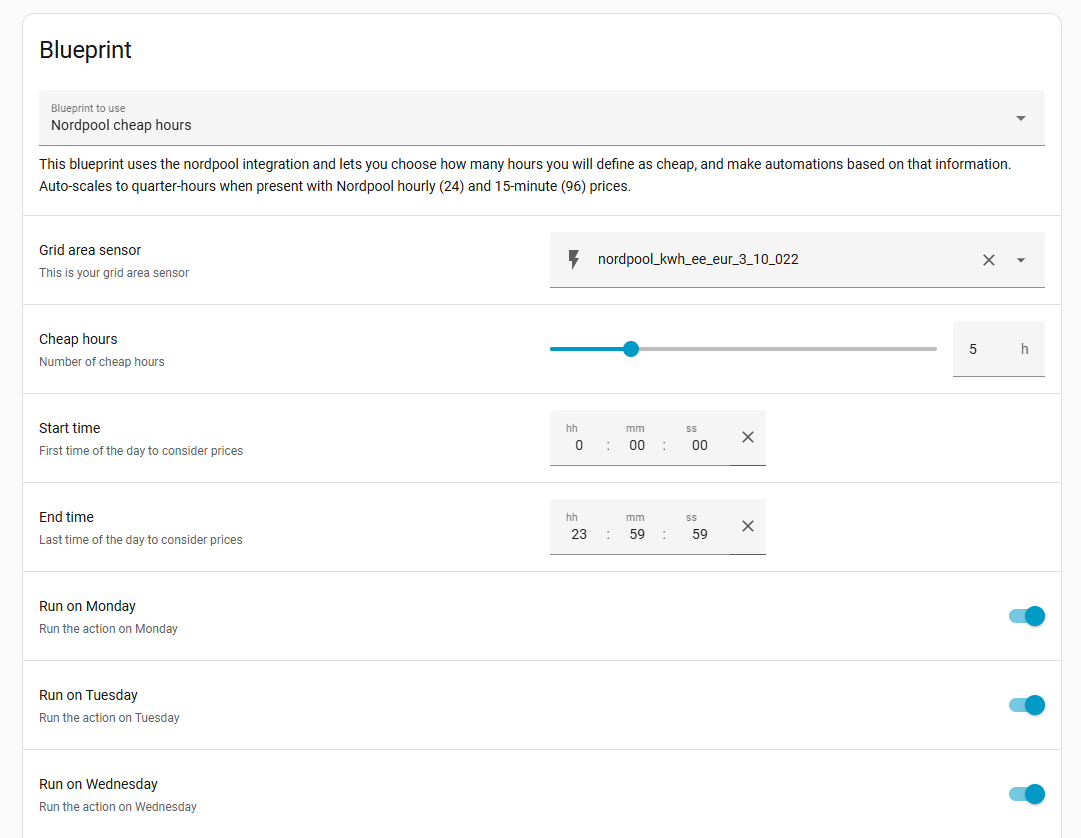
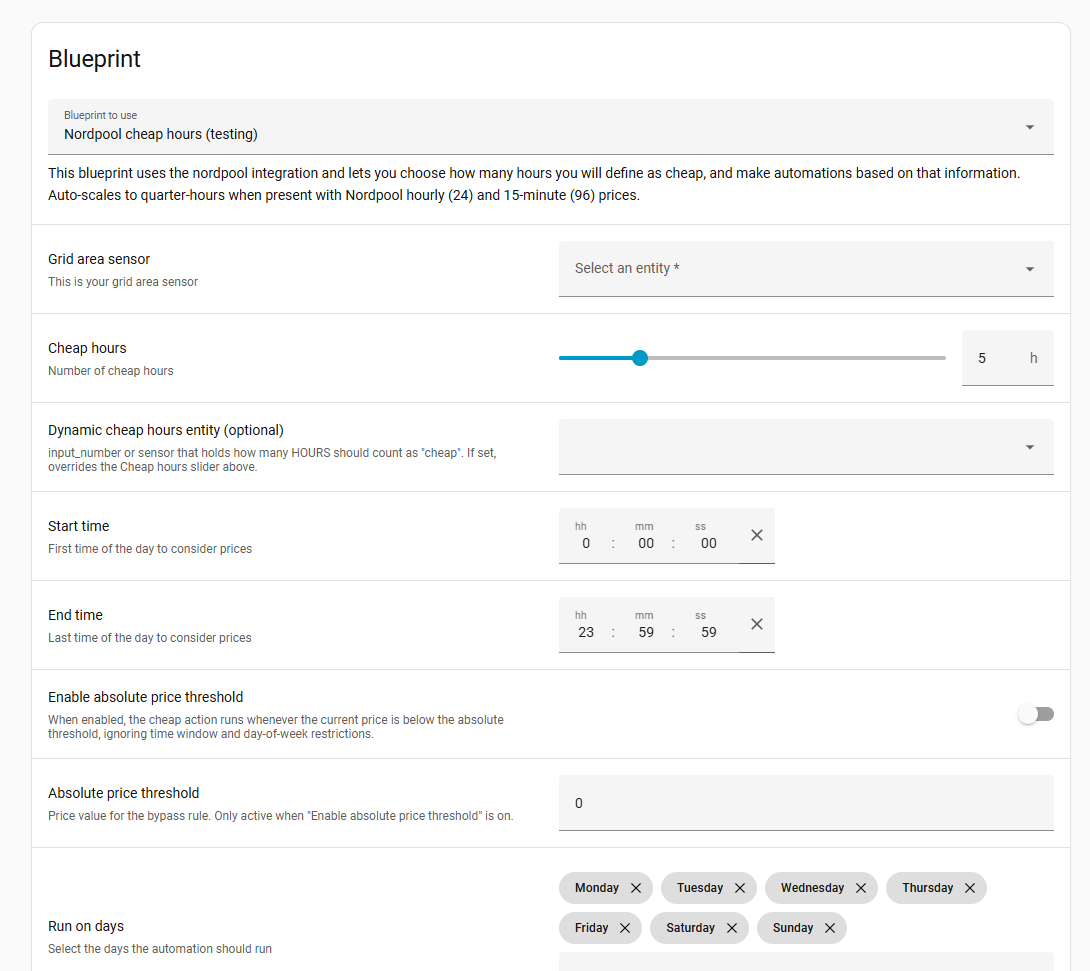
README and images Add dynamic cheap hours entity and absolute price threshold to README and updated images.

diff --git a/README.md b/README.md
@@ -17,11 +17,18 @@ Let's you choose sensor and enities.
 - **Weekday selection**: Choose which days of the week to run automations.
 - **Flexible thresholds**: Define how many hours should be considered "cheap".
 - **Auto-scaling**: Automatically handles both hourly (24 prices) and 15-minute (96 prices) Nordpool data.
+- **Testing blueprint extras**: Optional dynamic cheap-hours entity and optional absolute price threshold bypass.
 
 ## How to install
 * Open yaml file from this repo and copy address
 * Open HA Settings > Automation and Scenes > Blueprints > Import blueprint
 * Paste previously copied address and import
+
+### Which blueprint to import
+- Use `nordpool_cheap_prices.yaml` if you want the stable version.
+- Use `nordpool_cheap_prices_testing.yaml` if you want the newer testing features described below:
+  - Dynamic cheap hours entity
+  - Absolute price threshold
 
 
 ## Prerequisites
@@ -105,6 +112,43 @@ attributes:
 - Each `raw_today` entry uses `value` field (not `price`) for the price amount
 
 ## Configuration
+
+#### Dynamic cheap hours entity
+
+`Dynamic cheap hours entity (optional)` accepts an `input_number` or a numeric `sensor`.
+
+- If the entity is set and has a valid numeric value, it overrides the `Cheap hours` slider.
+- If the entity is empty, `unknown`, or `unavailable`, the blueprint falls back to the normal `Cheap hours` slider.
+- The value is interpreted as hours. On 15-minute Nordpool data the blueprint automatically scales that to quarter-hour slots.
+
+Use this when:
+- You want to change the number of cheap hours from a Home Assistant dashboard without reopening the automation.
+- You want another automation, helper, or template sensor to decide how many cheap hours should be used.
+- You want seasonal or weather-based tuning, for example more heating hours on colder days and fewer hours on milder days.
+
+Example UI for dynamic variable control:
+
+![Dynamic cheap hours example](screenshots/dynamic_hours_control.png)
+
+In the example above, an `input_number` helper is used to control the runtime target from the UI. That helper can be selected as the `Dynamic cheap hours entity`, letting the blueprint react immediately to the updated value.
+
+#### Absolute price threshold
+
+The testing blueprint also adds:
+- `Enable absolute price threshold`
+- `Absolute price threshold`
+
+When enabled, the cheap action runs whenever the current Nordpool price is less than or equal to the configured absolute price threshold.
+
+Use this when:
+- You have a hard maximum price where consumption is always acceptable, regardless of the selected time window.
+- You want to force heating, charging, or another load on whenever the market price drops below a fixed value.
+- You want a simple "buy below this price" rule instead of relying only on the cheapest N hours of the day.
+
+Important behavior:
+- This bypass is only for the cheap action.
+- It ignores the normal time window and weekday filtering when the current price is below the absolute threshold.
+- The expensive action still follows the normal weekday and time-window logic.
 
 ### Actions
 The blueprint has three action inputs:
